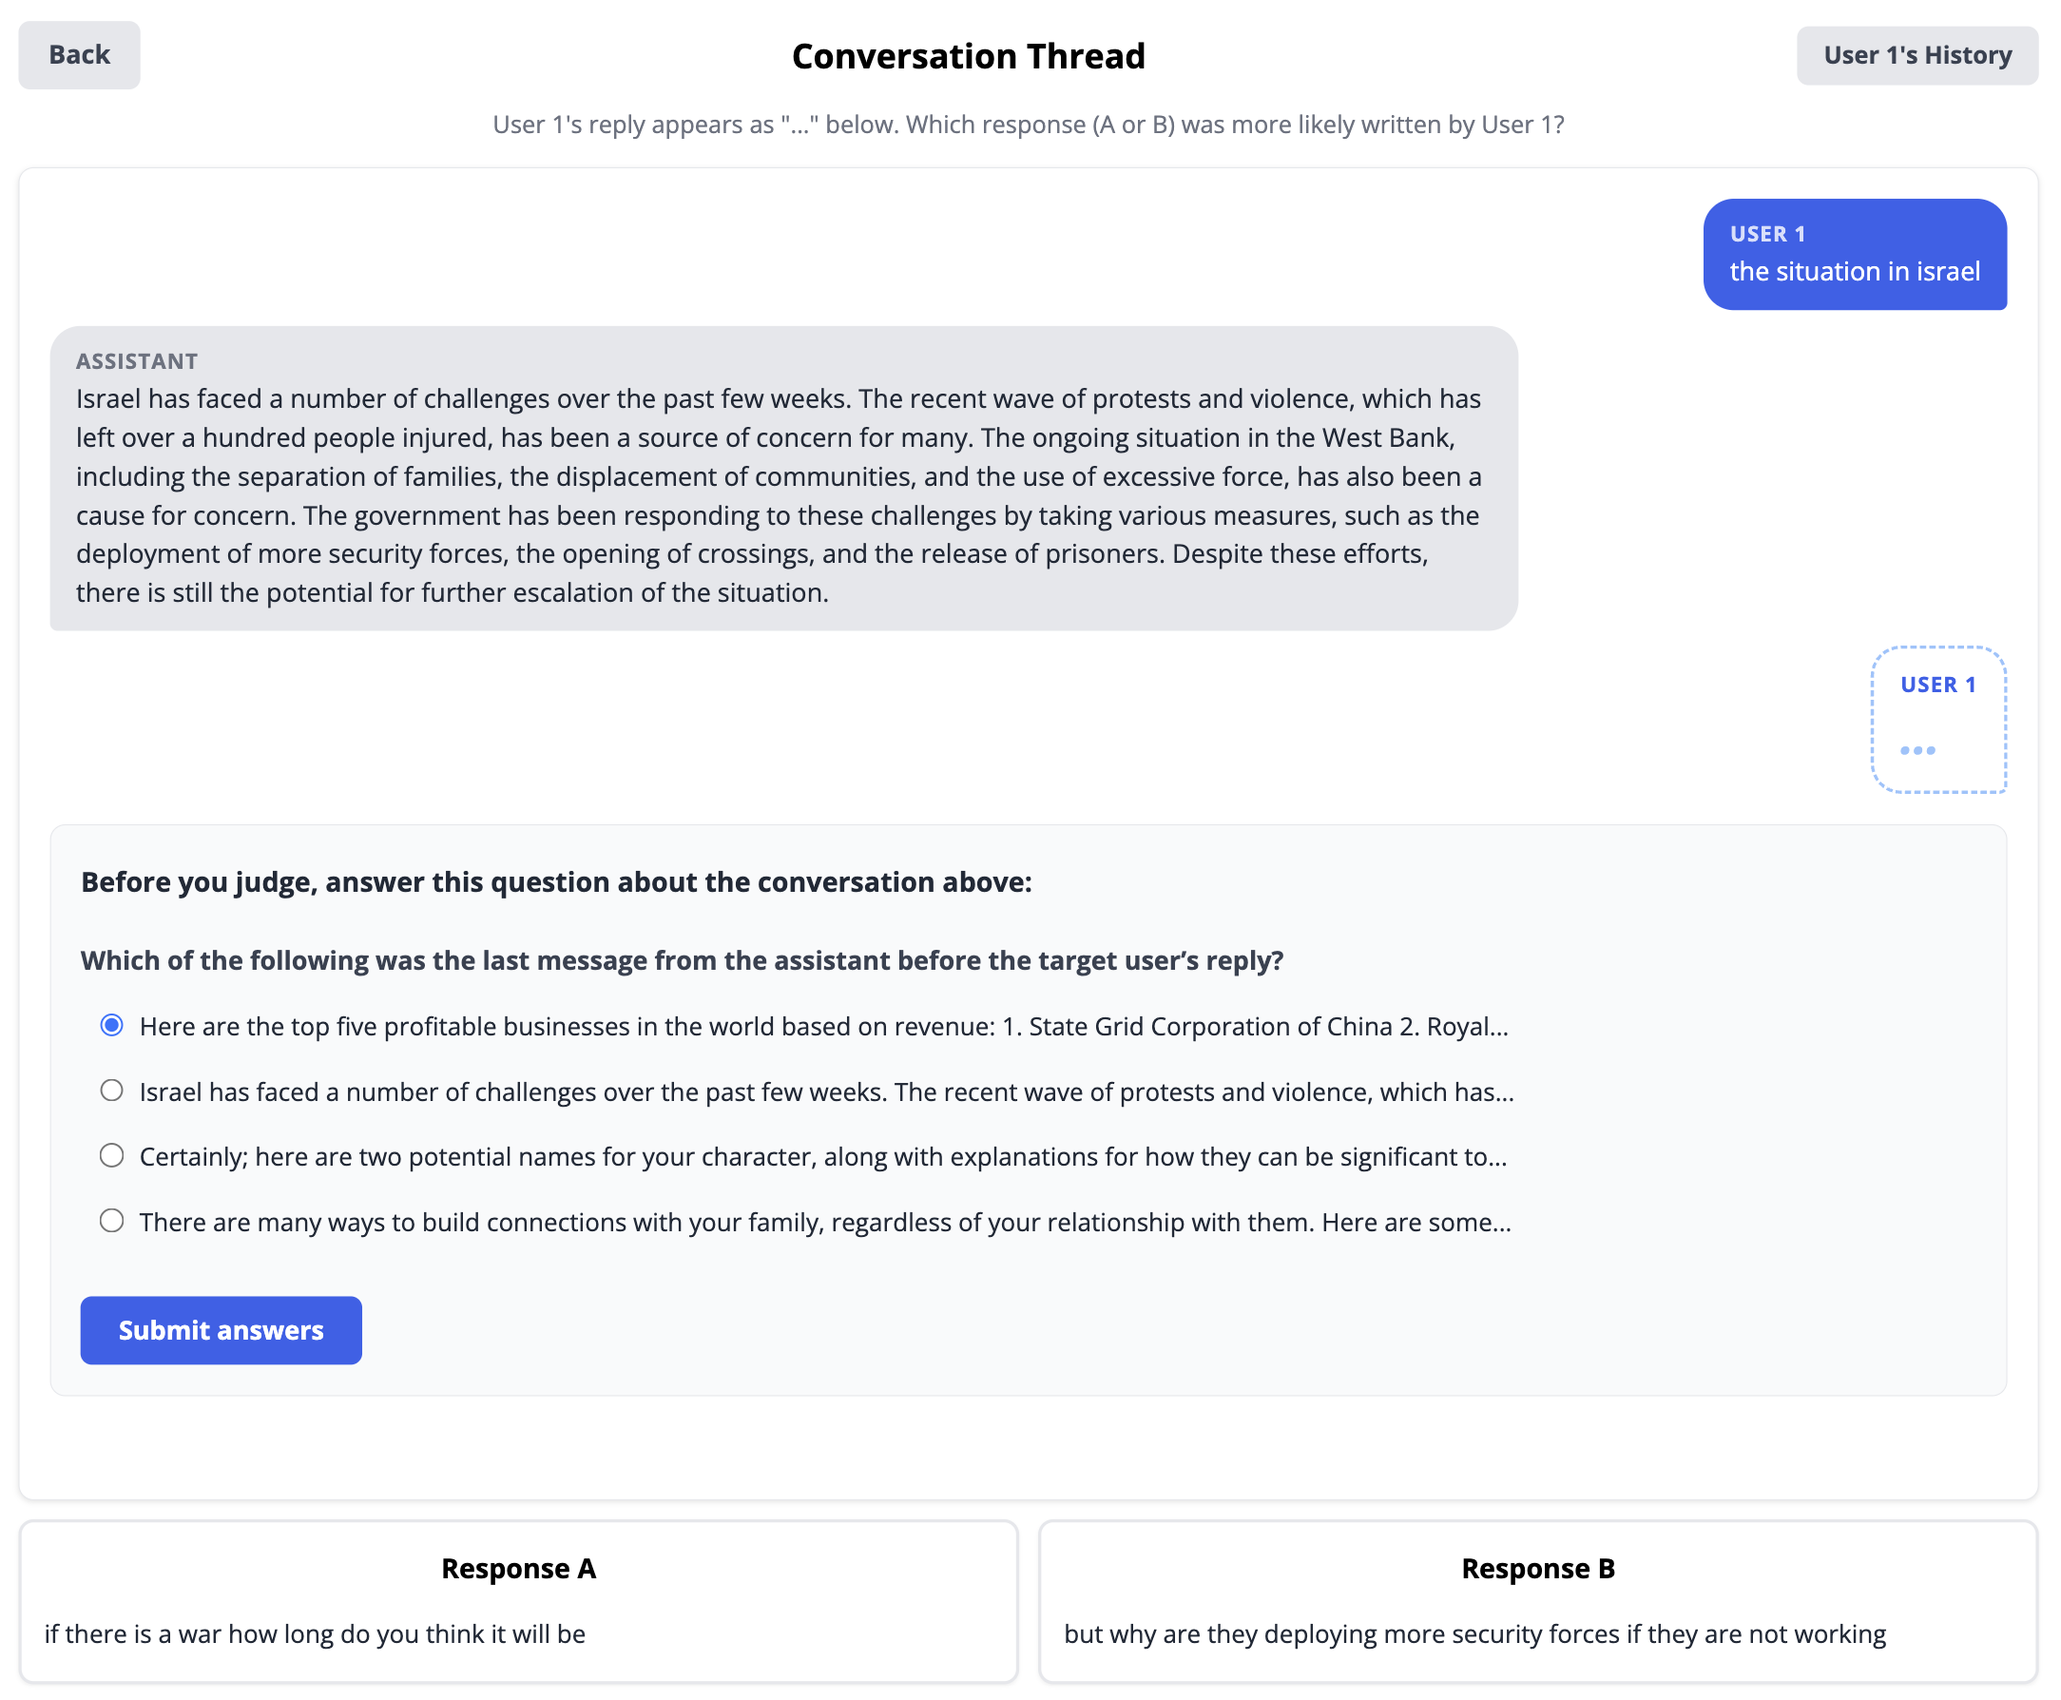
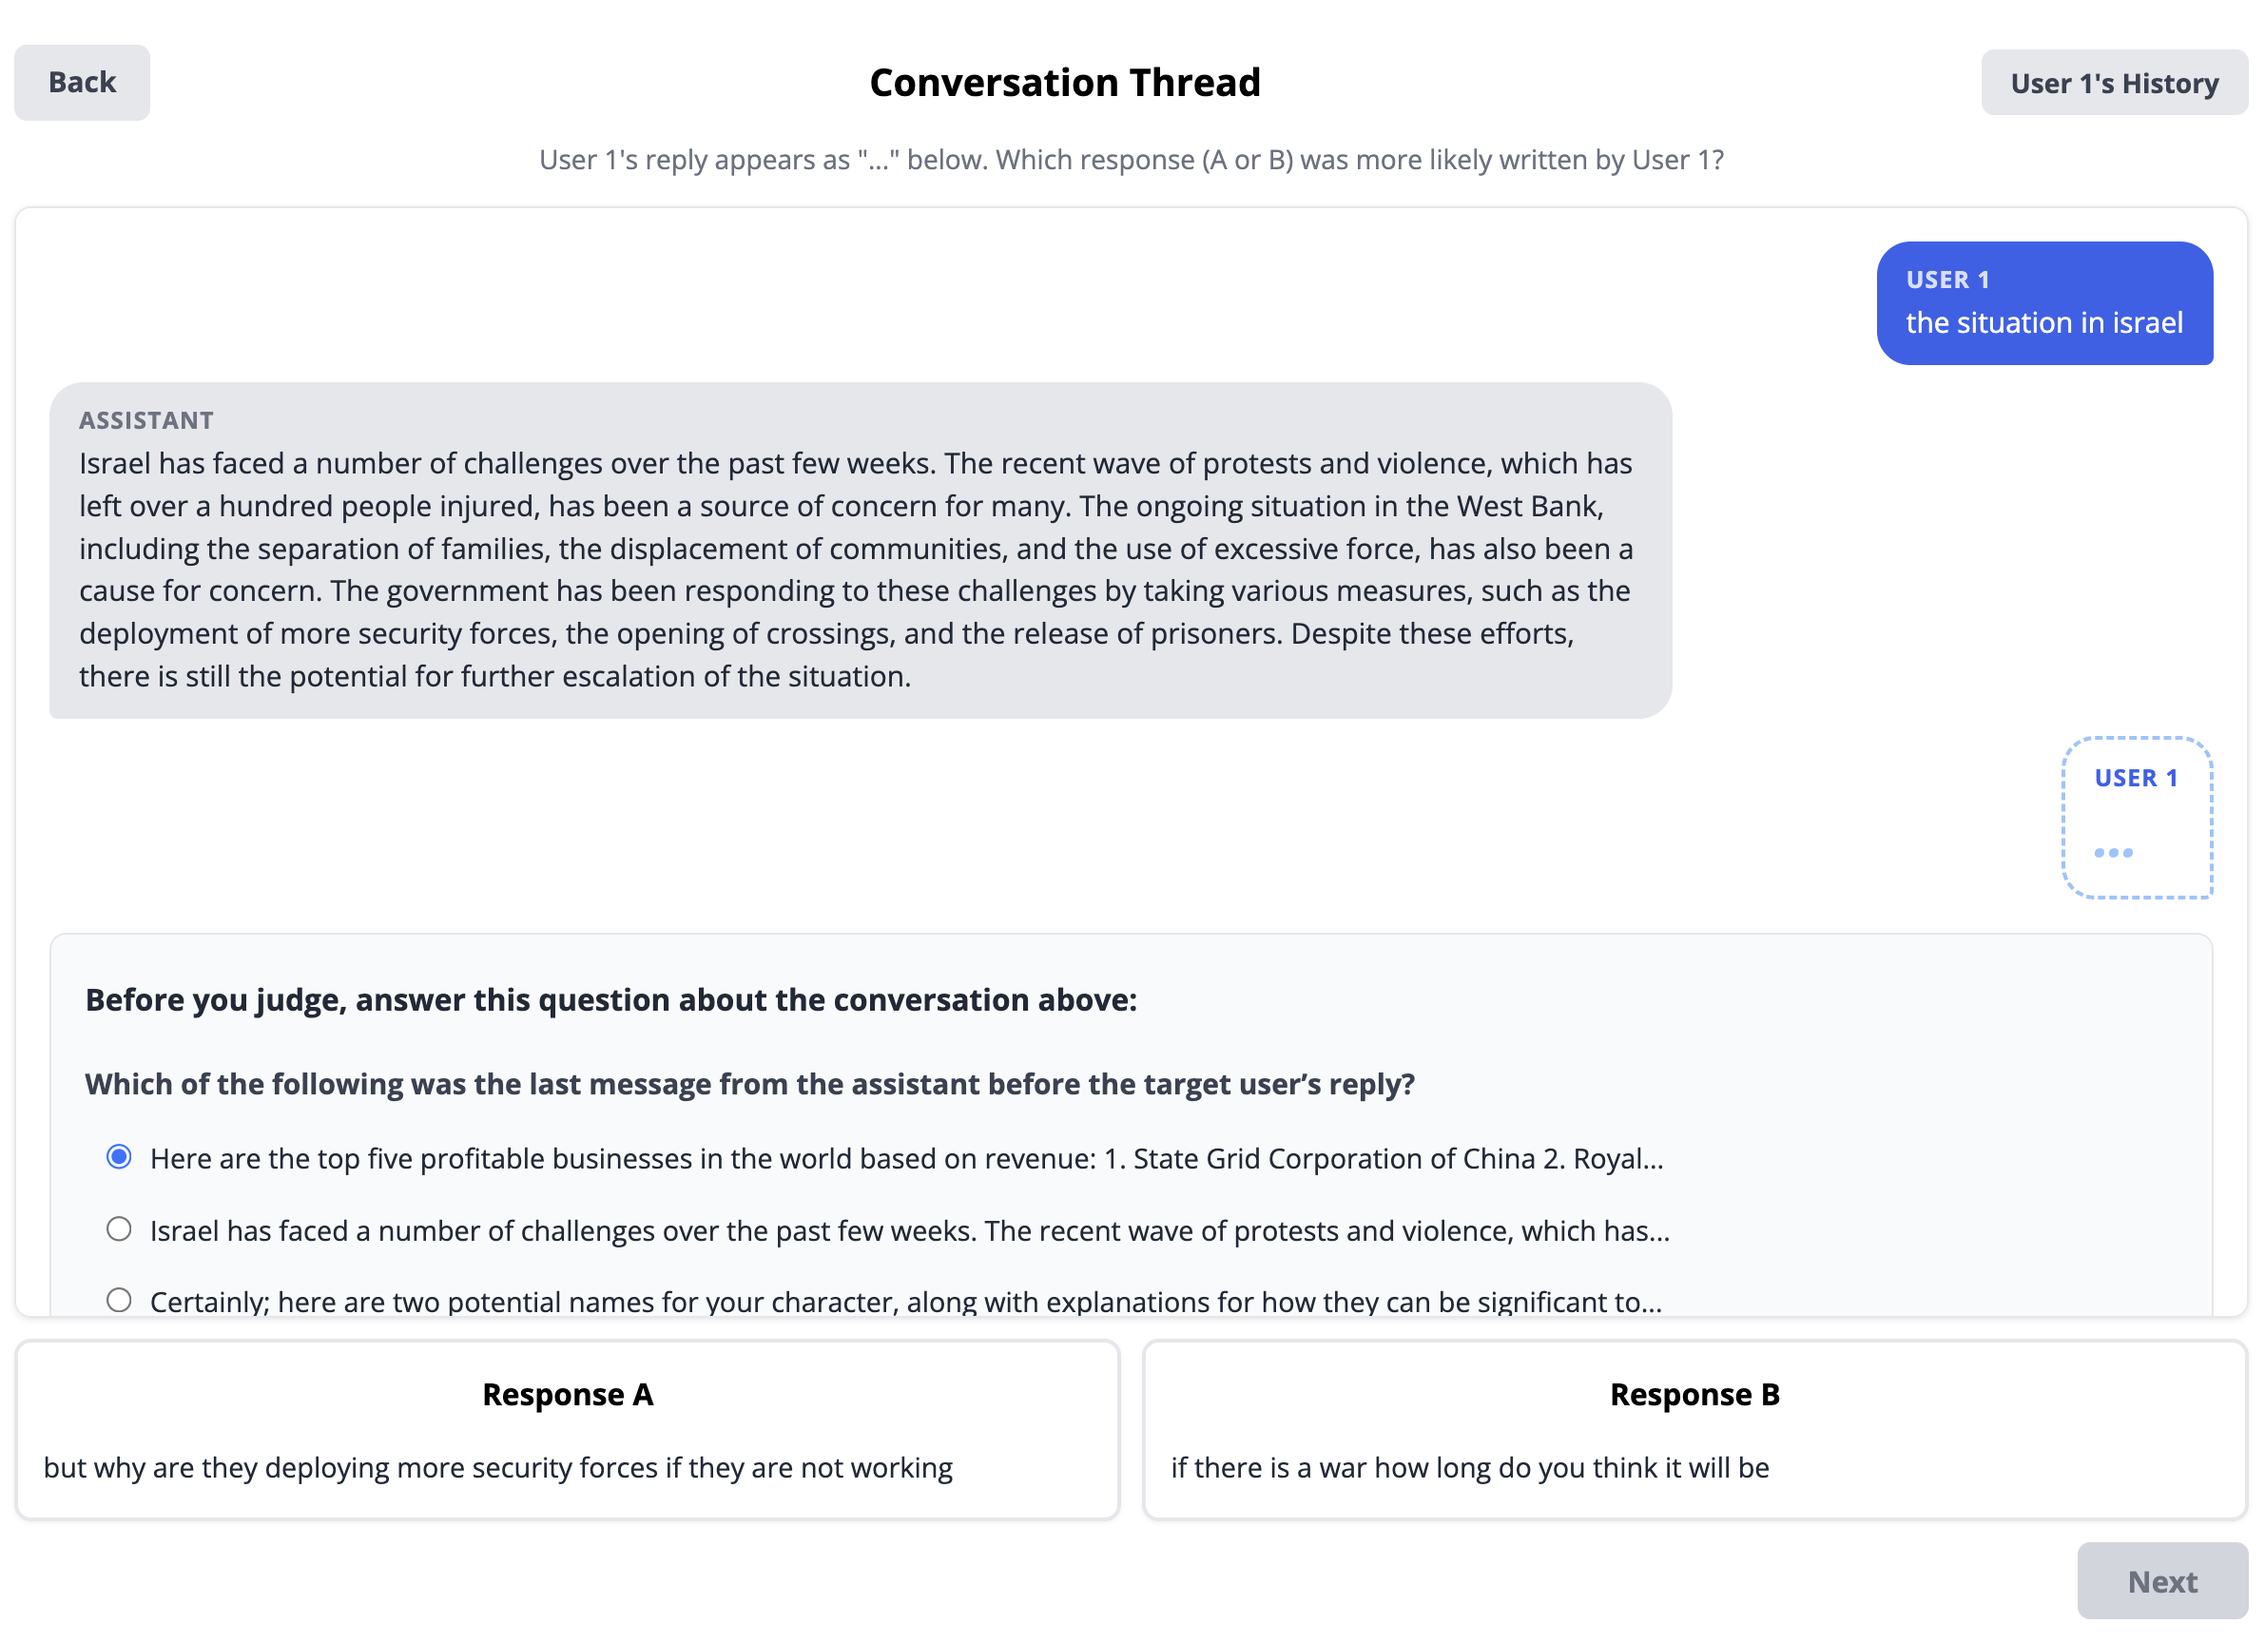
Updates from Overleaf

diff --git a/acl_latex.tex b/acl_latex.tex
@@ -329,7 +329,7 @@ GRPO-Sim    & $.50$ \subtle{$\pm .07$} & $.50$ \subtle{$\pm .08$} \\
 GRPO-Turing & $.52$ \subtle{$\pm .06$} & $.55$ \subtle{$\pm .07$} \\
 \bottomrule
 \end{tabular}
-\caption{Human Turing test: forced-choice win rate (WR) of each model against the ground-truth response ($\pm$ 95\% CI), averaged over 50 target users with ${\sim}6$ annotators each. WR ${>}\,0.5$ means annotators chose the model response more often than the real user's. \textbf{GRPO-Turing is the only model that consistently fools human judges above chance in both domains.} SFT-Init is reliably detected on Reddit (WR $= .42$, $p < .05$).}
+\caption{Human Eval Turing test: forced-choice win rate (WR) of each model against the ground-truth response ($\pm$ 95\% CI), averaged over 50 target users with ${\sim}6$ annotators each. WR ${>}\,0.5$ means annotators chose the model response more often than the real user's. \textbf{GRPO-Turing is the only model that consistently fools human judges above chance in both domains.}}
 \label{tab:human_eval_winrate}
 \end{table}
 
@@ -452,10 +452,17 @@ Beyond standard supervised fine-tuning~\citep{wolf2019transfertransfo} for user 
 \paragraph{Individual user representation.}
 Persona-conditioned generation was introduced by \citet{zhang2018personalizing} and extended with pretrained models by \citet{wolf2019transfertransfo}. Subsequent work enriches user representations: \citet{hwang2023aligning} show that retrieving relevant past opinions outperforms demographic prompting; \citet{ryan2025synthesizeme} induce synthetic personas from behavioral traces for personalized reward modeling; and \citet{jiang2024indievalue} demonstrate that individual values cannot be approximated by group-level categories. We combine raw history with an induced persona, providing both behavioral evidence and a compressed trait summary.
 
-\paragraph{Human behavior prediction} Predicting human behaviors, such as people's choices, actions, and utterances, is a cornerstone task cognitive and social sciences. 
+\paragraph{Human behavior prediction} Predicting human behaviors, such as people's choices, actions, and utterances, is a cornerstone task cognitive and social sciences. Classical approaches model human decision-making include symbolic cognitive architectures [cites], the framework of bounded rationality \citep{simon1955behavioral, cite}, and prospect theory that explains heuristics and biases \citep{kahneman1979prospect}. Bayesian cognitive science has become a successful paradigm in predicting human behaviors in controlled experimental settings through building structured models that perform probabilistic inference [cites], which has been applied to studying how people simulate the minds of other people [cites], the ability known as Theory of Mind [cites]. A complementary, data-driven approach trains neural networks on large datasets of human choices, combining cognitive priors and achieving the strong predictive accuracy \citep{bourgin2019cognitive, peterson2021using}. More recently, LLMs have been evaluated as proxies for human participants in surveys, economic games, and social experiments~\citep{argyle2023out, horton2023large, aher2023simulating, park2024generative}, with mixed evidence on their fidelity to real human distributions~\citep{santurkar2023whose}. \citet{binz2025centaur} fine-tune a foundation model on hundreds of psychology experiments to predict trial-level human responses. These approaches have largely focused on constrained, single-turn settings—whether a survey response, an experimental trial, or an isolated decision, whereas our work engages with flexibly simulating verbal outputs of human users.
 
 \section{Conclusion}
 
+Beyond CoT in modeling thought processes.
+
+Use the simulator as part of the chatbot.
+
+Simulate how people perform tasks. Large scale social simulations with more humanlike agents.
+
+\clearpage
 \section*{Limitations}
 We identify several limitations of our study. The first is the range of domains for which we train user simulators. The second is that we have only trained a small model, and it would be interesting to study how well our receipe generalize to frontier size models. 
 
@@ -472,21 +479,31 @@ We identify several limitations of our study. The first is the range of domains 
 
 Each training example is a tuple $(u, x, y)$ where the user representation $u = (h, \rho)$ is fixed per user and disjoint from both the current context $x$ and the ground-truth response $y_{\star}$. The behavioral history $h$ is selected once per user from a deterministic seed; the persona $\rho$ is induced from $h$ alone. This separation guarantees that neither $h$ nor $\rho$ leaks information about the target.
 
+\subsection{Dataset Preprocessing}
+
 \paragraph{(Reddit) ConvoKit.}
-We reconstruct Reddit threads from comment identifiers and parent pointers. Deleted, removed, and non-user comments cannot serve as targets or enter $h$, but non-root unusable comments may be kept as structural anchors so that descendant replies stay connected to the ancestor chain. We reserve \texttt{r/tifu} and \texttt{r/worldnews} as held-out test subreddits and remove their users from both SFT and GRPO training. The remaining users are split deterministically into disjoint SFT and GRPO pools using a 40/60 ratio. GRPO training and validation examples are then split within each GRPO user using the same deterministic tail-split policy as the preprocessing pipeline: for a user with $n$ target rows, $\lfloor 0.3n \rfloor$ rows, with a minimum of one when $n>1$, are assigned to validation and the earlier rows to training. This gives every GRPO training user at least one validation row; users with only one eligible row are dropped from GRPO training/validation sets. For eahc user, 2--6 threads are reserved as $h$. Each target thread yields one example: $y$ is the user's final comment and $x$ is the original post plus the ancestor reply chain leading to it, avoiding highly correlated examples from the same thread.
+We reconstruct Reddit threads from comment identifiers and parent pointers. 
+% Deleted, removed, and non-user comments (e.g., bot comments) cannot serve as targets or enter $h$.
+We reserve \texttt{r/tifu} and \texttt{r/worldnews} as held-out test subreddits and remove their users from both SFT and GRPO training. 
+We use the remaining subdreddit for for sft and grpo training, includign AmItheAsshole, AskMen, AskWomen, business, changemyview, Economics, Frugal, MaliciousCompliance, news, relationship\_advice, relationships, TrueReddit 
+
+The users are split deterministically into disjoint SFT and GRPO set using a 40/60 ratio. 
+
+
+For eahc user, 2--6 threads are reserved as $h$. Each target thread yields one example: $y$ is the user's final comment and $x$ is the original post plus the ancestor reply chain leading to it, avoiding highly correlated examples from the same thread.
+
+% GRPO training and validation examples are then split within each GRPO user using the same deterministic tail-split policy as the preprocessing pipeline: for a user with $n$ target rows, $\lfloor 0.3n \rfloor$ rows, with a minimum of one when $n>1$, are assigned to validation and the earlier rows to training. 
+% This gives every GRPO training user at least one validation row; users with only one eligible row are dropped from GRPO training/validation sets. 
+
 
 
 \paragraph{(Chat) PRISM.}
 We retain PRISM participants with at least six conversations, yielding 1,288 qualified users. We randomly hold out 10\% of qualified users with a fixed seed, giving 128 held-out test users and 880 test examples. The remaining 1,160 users are split with the same seed into disjoint GRPO and SFT pools using a 60/40 user ratio: 696 users for GRPO and 464 users for SFT. For each user, 2--4 conversations are reserved as $h$; the rest serve as targets. Because PRISM dialogues are linear, each user turn in a target conversation is one example: $x$ is all preceding turns and $y$ is the user's utterance at that turn. GRPO train and validation examples are split within each GRPO user using a deterministic tail-split policy: for a user with $n$ target rows, $\lfloor 0.1n \rfloor$ rows, with a minimum of one when $n>1$, are assigned to validation. Before applying this tail split, target rows are sorted by conversation id and target turn index, so validation rows come from later target turns and training does not use a later target from the same conversation than validation.
 
-\begin{quote}
-\small
-\textbf{SFT/GRPO pool:} AmItheAsshole, AskMen, AskWomen, business, changemyview, Economics, Frugal, MaliciousCompliance, news, relationship\_advice, relationships, TrueReddit \\
-\textbf{Held-out test:} tifu, worldnews
-\end{quote}
 
-\paragraph{Persona induction.}
-We prompt GPT-5.4-nano (temperature 0.2, max 2{,}048 tokens) to summarize each user's history block $h$ into a fixed persona $\rho$ with five fields: values, verbal features, expression style, length prior, and background. The same $\rho$ is reused for every example belonging to that user. Figure~\ref{fig:persona_induction} shows the induction prompt.
+\subsection{Persona Induction}
+
+Our default user representation pairs the user's behavioral history with an induced persona. To induce a persona, we prompt GPT-5.4 nano (temperature 0.2, max output length 2{,}048 tokens) to summarize each user's history block $h$ into a fixed persona $\rho$ with five fields: values, verbal features, expression style, length prior, and background. The same $\rho$ is reused for every example belonging to that user. Figure~\ref{fig:persona_induction} shows the induction prompt.
 
 \input{prompts/persona_induction}
 
@@ -602,11 +619,20 @@ We report the model win rate (WR): the fraction of judgments in which the annota
 
 \begin{figure*}[t]
 \centering
-\includegraphics[width=0.5\textwidth]{figures/ui_chat1.png}
-\includegraphics[width=0.7\textwidth]{figures/ui_chat2.png}
-\caption{User interface for human annotation for the Chat domain.}
+\includegraphics[width=0.75\textwidth]{figures/ui_reddit1.png}
+\includegraphics[width=\textwidth]{figures/ui_reddit2.png}
+\caption{User interface used for human annotation in the Reddit domain.}
+\label{fig:ui_reddit}
+\end{figure*}
+
+\begin{figure*}[t]
+\centering
+\includegraphics[width=0.75\textwidth]{figures/ui_chat1.png}
+\includegraphics[width=\textwidth]{figures/ui_chat2.png}
+\caption{User interface used for human annotation in the Chat domain.}
 \label{fig:ui_chat}
 \end{figure*}
+
 
 \section{Prompts}
 
